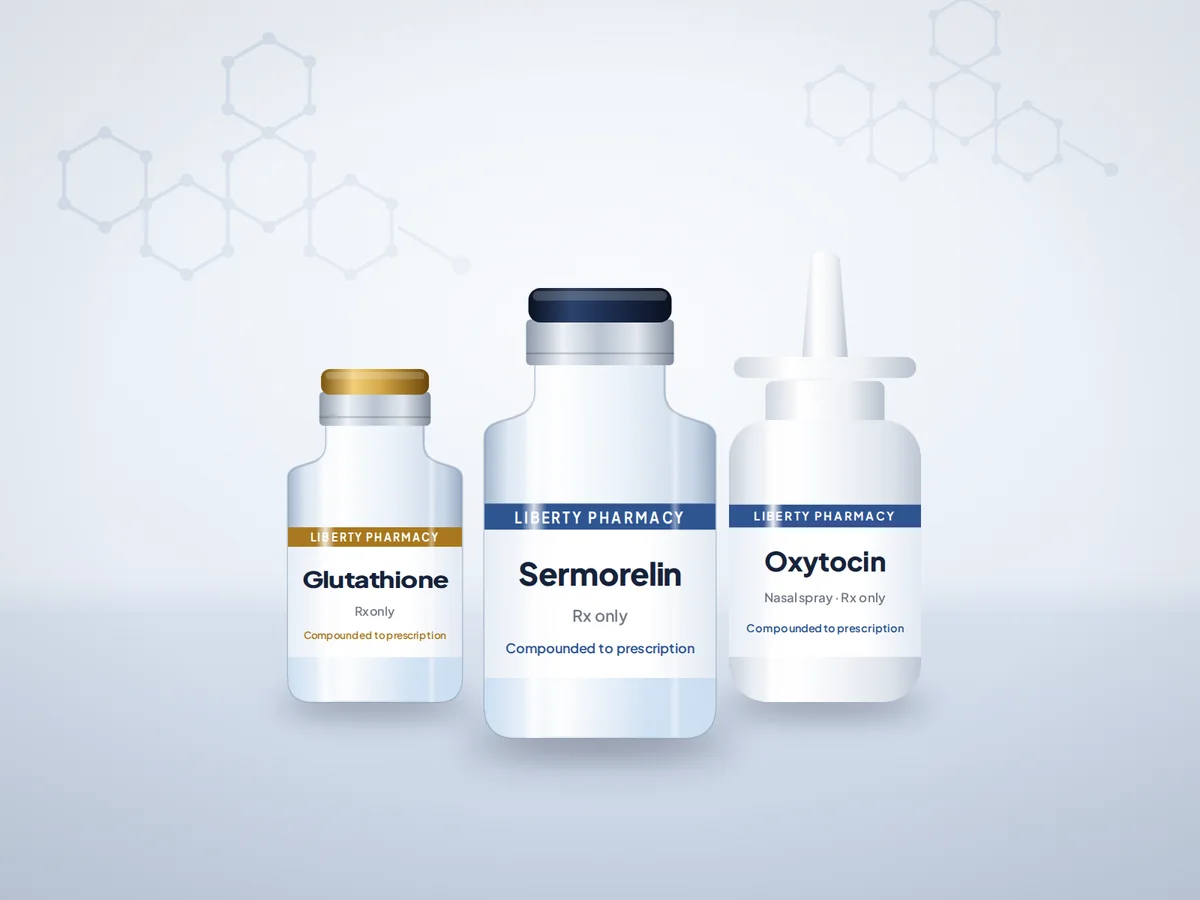
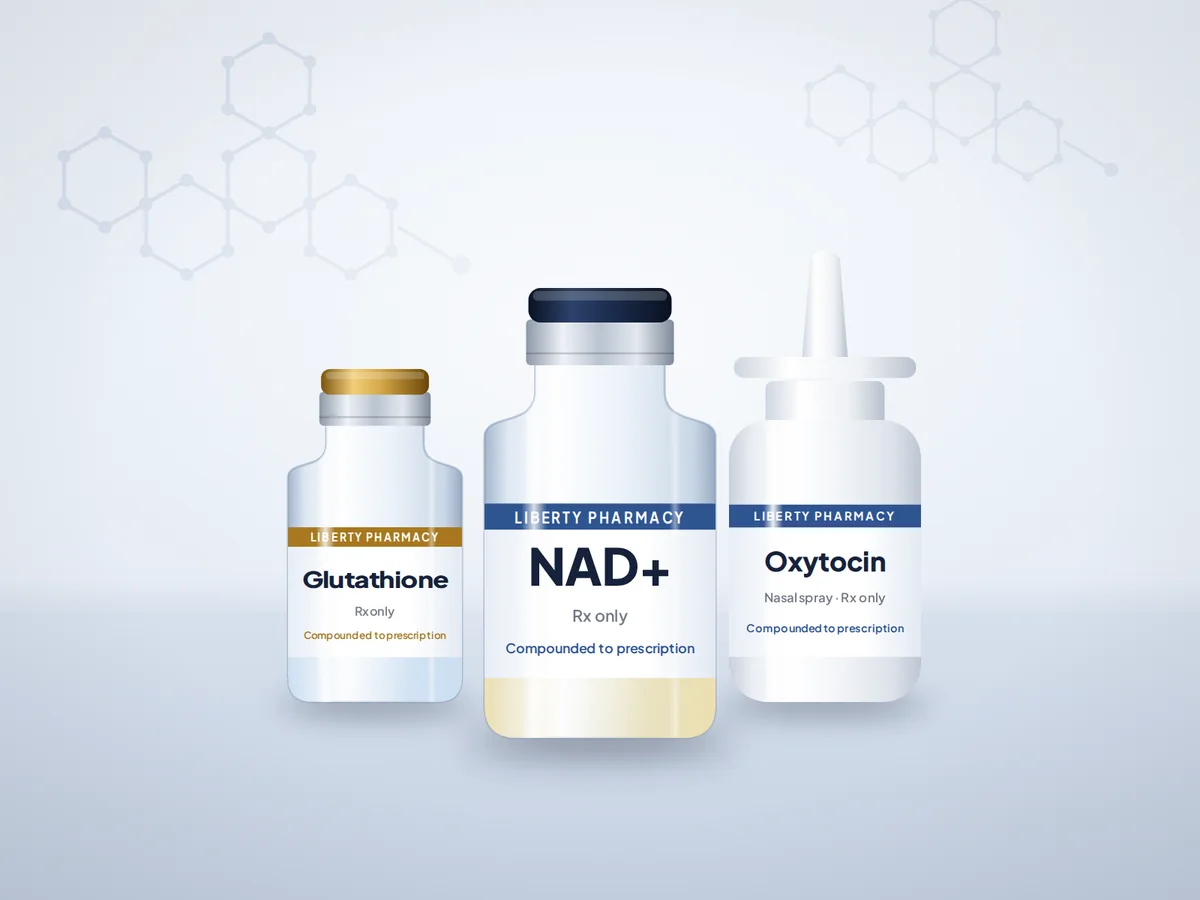
Catalog: replace Sermorelin with NAD+ in Peptides
Removes the Sermorelin entry and its image, and adds NAD+ in the same
slot with claim-free, prescription-only copy. The description notes that
NAD+ is a coenzyme rather than a peptide but is often prescribed
alongside peptide therapies. New nad-plus.webp render; the Peptides
category tile now shows NAD+ in place of Sermorelin.

/products/sermorelin now returns 404, and any saved-list entry for it is
dropped automatically (the list already filters unknown ids).

Claude-Session: https://claude.ai/code/session_01GQx3M2C6XrmHTHtcQ1Ecjo

Changed region(s): [[0.4933, 0.7467, 0.6167, 0.84], [0.4317, 0.5911, 0.5858, 0.6533], [0.4008, 0.7467, 0.4625, 0.84]]

diff --git a/src/lib/products.ts b/src/lib/products.ts
@@ -145,23 +145,23 @@ export const products: Product[] = [
   // --- Peptides -------------------------------------------------------------
   // Claim-free by design — see the PEPTIDES note at the top of this file.
   {
-    id: "sermorelin",
-    name: "Sermorelin",
+    id: "nad-plus",
+    name: "NAD+",
     categoryId: "peptides",
     icon: "syringe",
-    summary: "Compounded to your physician's prescription, with supplies and guidance.",
+    summary: "Compounded to your prescriber's order, with supplies and guidance.",
     description:
-      "Sermorelin is a peptide your physician may prescribe as part of a supervised treatment plan. We compound it to the strength and schedule on your prescription, dispense it with the supplies you need, and walk you through storage and administration before you leave.",
+      "NAD+ (nicotinamide adenine dinucleotide) is a coenzyme your prescriber may order as part of a supervised treatment plan. It isn't a peptide, but it is often prescribed alongside peptide therapies, so we list it here. We compound it in the form and strength on your prescription, dispense it with the supplies you need, and walk you through storage and administration before you leave.",
     details: [
       "Prescription required — prepared to your prescriber's exact order",
+      "Form and strength set by your prescriber",
       "Dispensed with supplies and step-by-step administration guidance",
-      "Refrigerated storage, handled cold from compounding to pickup",
       "We coordinate refills and dose changes directly with your prescriber",
     ],
     availability: "Made to order — prescription required",
     badge: "Prescription",
-    image: "/products/sermorelin.webp",
-    imageAlt: "Liberty Pharmacy sermorelin vial with a pharmacy label",
+    image: "/products/nad-plus.webp",
+    imageAlt: "Liberty Pharmacy NAD+ vials with a pharmacy label",
   },
   {
     id: "glutathione",
